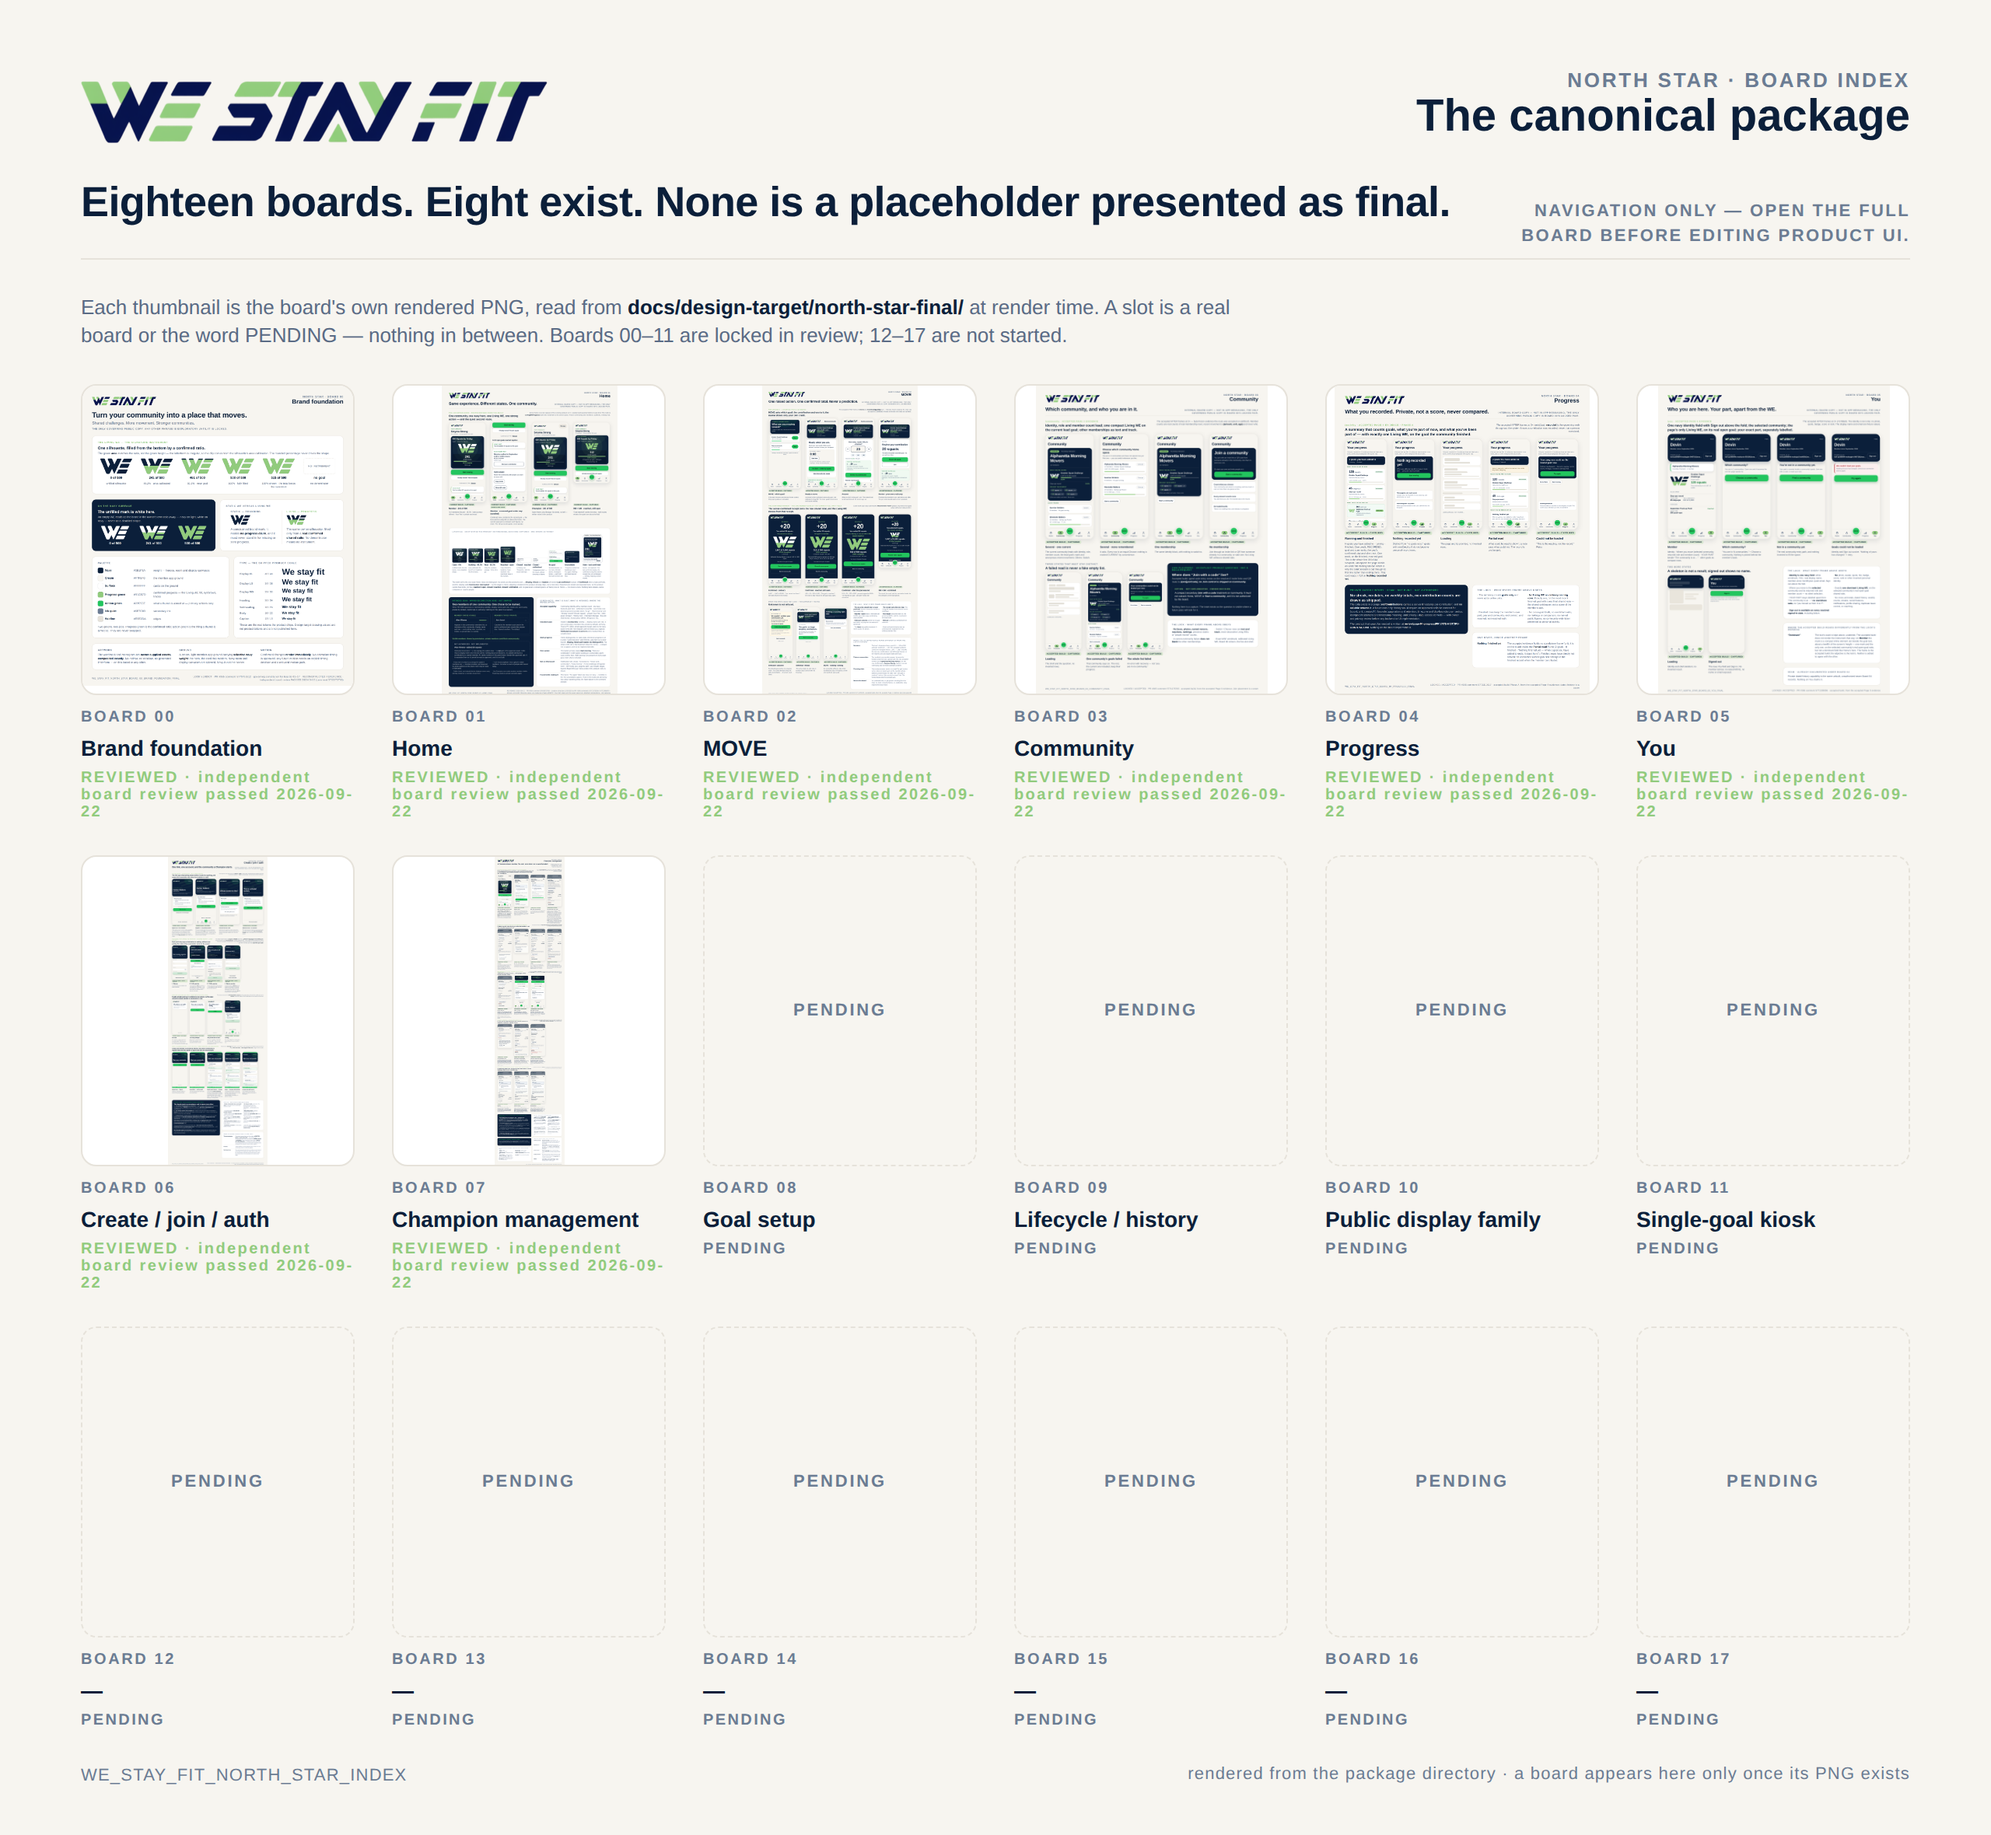
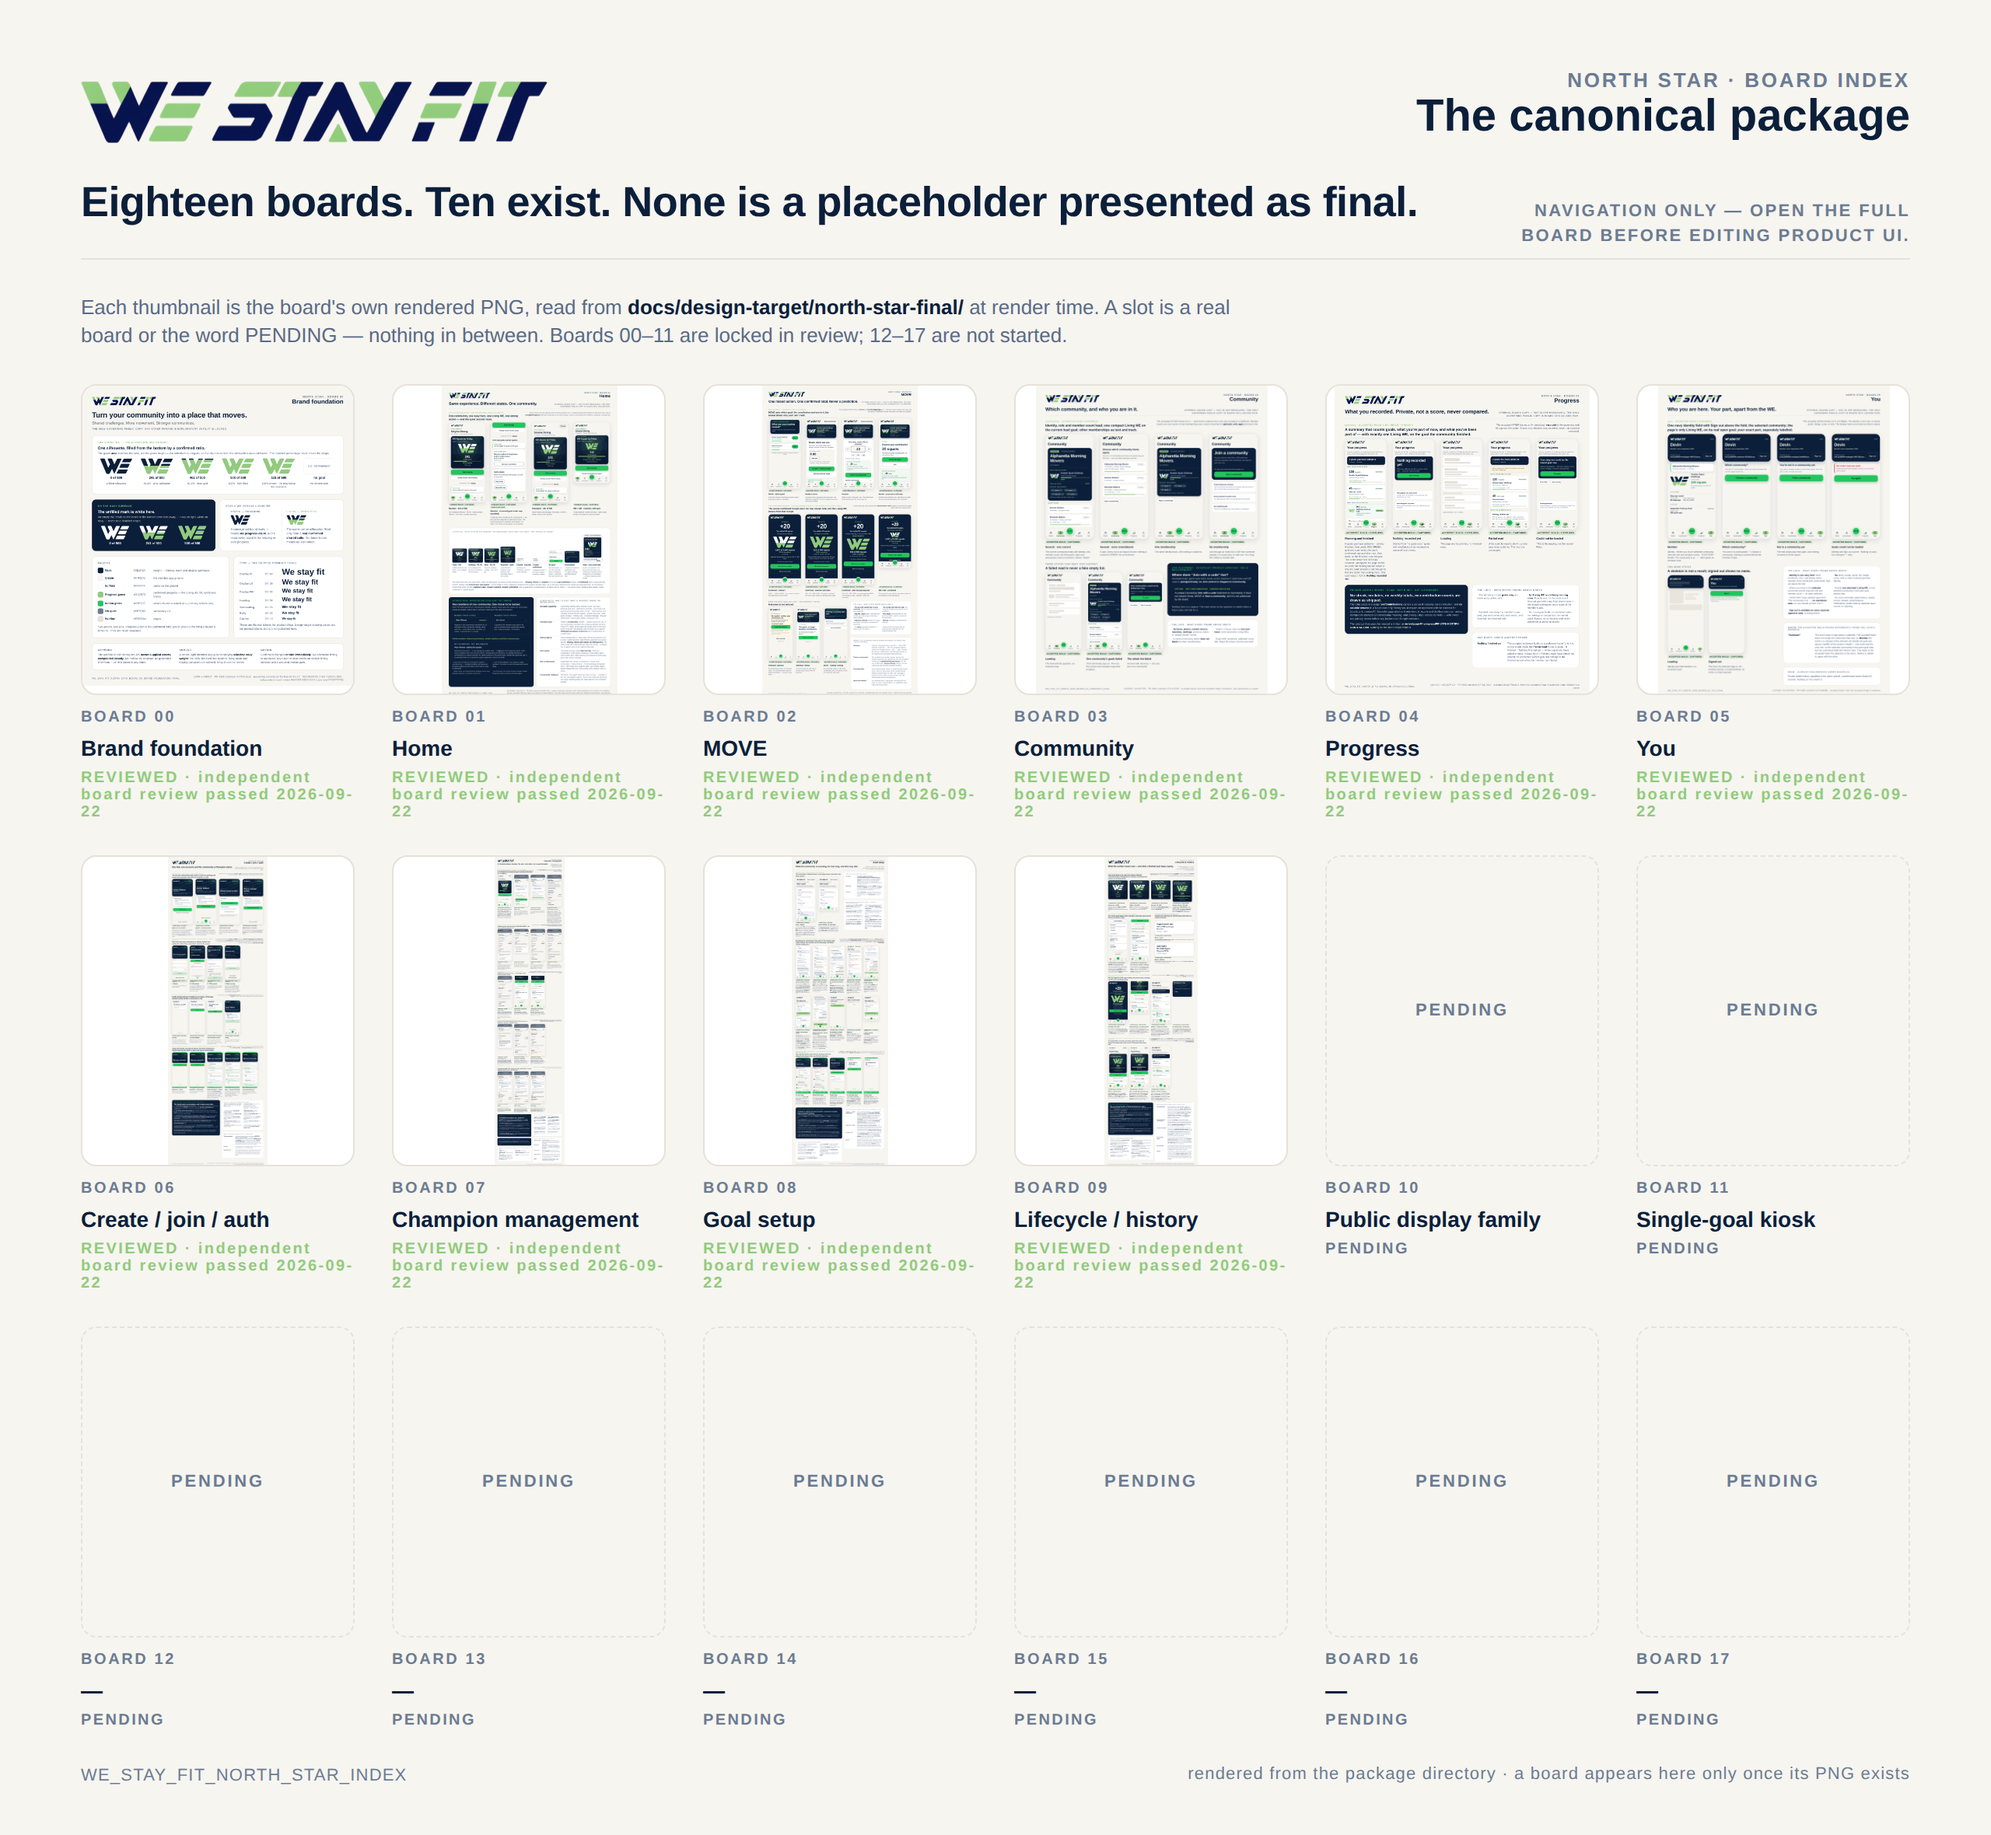
docs(westayfit): Boards 08 and 09 REVIEWED — status 3 recorded from verdicts 5786034310 and 5786014162; 1x copies cut; INDEX re-rendered with ten boards
- README rows 08 and 09: REVIEWED (PR #409 at 5674a86, artifact 10724116667, blob bb72dacc;
  PR #412 at 8aae42d, artifact 10724485128, blob f34cfaf3); review sentence Boards 00-09 + INDEX
- board-08 and board-09 READMEs: status-only review sections (PNG bytes untouched)
- review-copies: Board 08 and Board 09 1x copies; INDEX.png + INDEX 1x re-rendered;
  index.mjs headline "Ten exist"

Claude-Session: https://claude.ai/code/session_017cby7B21o4bFbnpsa1ciRV

diff --git a/docs/design-target/north-star-final/README.md b/docs/design-target/north-star-final/README.md
@@ -49,14 +49,17 @@ board gets treated as accepted when only its source screens were:
    checked it line by line against the lock verdict (recorded in the board's
    README).
 3. **Independent board review** — the Program Director has visually reviewed
-   the rendered board itself. **Boards 00–07 + INDEX have it as of
+   the rendered board itself. **Boards 00–09 + INDEX have it as of
    2026-09-22** — Boards 00–05 + INDEX by Program Director verdict
    `5783373780`, a pixel review of the commit-pinned 1× review copies at
    `a912773` (*PASS as the canonical reconstructed 00–05 package*); Board 06
    by Creative Director verdict `5784845039` on PR #404, a pixel review of the
    exported original at `d6aba97`; Board 07 by Creative Director verdict
    `5785727716` on PR #416, a pixel review of the exported original at
-   `fe82c1e` (artifact `10723837867`, blob `df1a587`). It clears this status for these
+   `fe82c1e` (artifact `10723837867`, blob `df1a587`); Boards 08 and 09 by
+   Creative Director verdicts `5786034310` (PR #409, exported original at
+   `5674a86`, artifact `10724116667`, blob `bb72dacc`) and `5786014162`
+   (PR #412, `8aae42d`, artifact `10724485128`, blob `f34cfaf3`). It clears this status for these
    reconstructed artifacts only; it does not newly accept or stage the
    underlying app pages, and it authorises no deployment.
 
@@ -102,8 +105,8 @@ unaffected.
 | 05 | You | **REVIEWED** · independent board review passed 2026-09-22 (`5783373780`) | `5771338856` | accepted build | [`board-05/…BOARD_05_YOU_FINAL.png`](board-05/WE_STAY_FIT_NORTH_STAR_BOARD_05_YOU_FINAL.png) | `a912773` | Six accepted Page 5 AFTER frames read in place; every lock state has one. **2026-09-22 (W2, #399):** the board's own lead line no longer claims a *dominant* mark; the lock's quoted wording is unaltered and a differences panel records the gap (P-4). |
 | 06 | Create / join / auth | **REVIEWED** · independent board review passed 2026-09-22 (`5784845039`) | `5771368550` | current build review — identity accepted at `3562156` and captured later; `/join/[joinCode]` awaiting its page verdict; `/start-community` target redesign drawn, not implemented | [`board-06/…BOARD_06_CREATE_JOIN_AUTH_FINAL.png`](board-06/WE_STAY_FIT_NORTH_STAR_BOARD_06_CREATE_JOIN_AUTH_FINAL.png) | `d6aba97` | W2 (PR #404); reviewed from the exported original (artifact `10721560350`, blob `3f0b556`); the PNG's own footer still reads its submission label. |
 | 07 | Champion management | **REVIEWED** · independent board review passed 2026-09-22 (`5785727716`) | `5771412585` | current Manage-sheet truth — the three Home frames are the accepted Page 1 captured later; the fourteen sheet frames are current build; the expanded-details / QR / screens paths are disclosed, not pictured | [`board-07/…BOARD_07_CHAMPION_MANAGEMENT_FINAL.png`](board-07/WE_STAY_FIT_NORTH_STAR_BOARD_07_CHAMPION_MANAGEMENT_FINAL.png) | `ee4e4f8` | W2 (PR #416); reviewed from the exported original (artifact `10723837867`, blob `df1a587`); the PNG's own footer still reads its submission label. Two annotations travel with it (board README): the lock's "member directory not built" line is source-scoped to `5356e3c` and does not retire the separate #390 work; the event-first dense sheet and its invite-not-ready caveat remain product findings, not a premium standard. Champion administration beyond the current sheet is an unbuilt seam. |
-| 08 | Goal setup | PENDING | `5771436211` | staging-only current-build truth | — | — | |
-| 09 | Lifecycle / history | PENDING | `5771469193` | lifecycle truth | — | — | |
+| 08 | Goal setup | **REVIEWED** · independent board review passed 2026-09-22 (`5786034310`) | `5771436211` | staging-only current-build truth — the two arrival frames frozen at `02e24df`; a CURRENT BUILD strip from W4's real goal-setup captures (#415, source `0757379`); the target drawings kept non-authoritative where they conflict with the lock | [`board-08/…BOARD_08_GOAL_SETUP_FINAL.png`](board-08/WE_STAY_FIT_NORTH_STAR_BOARD_08_GOAL_SETUP_FINAL.png) | `5674a86` | W1B (PR #409); composition PASS `5784966469`, the coverage hold closed by the bounded revision `56fb683`, two captions corrected at `5674a86`; reviewed from the exported original (artifact `10724116667`, blob `bb72dacc`); the PNG's own footer still reads its submission label. Not page acceptance: the route stays available in staging and local emulators, production UI gated. |
+| 09 | Lifecycle / history | **REVIEWED** · independent board review passed 2026-09-22 (`5786014162`) | `5771469193` | lifecycle truth — eleven accepted-build captures read in place, plus the corrected-below-target specimen photographed from a real reach and a real group-level correction (`review/lifecycle-corrected-current/`, W1B's gated producer) | [`board-09/…BOARD_09_LIFECYCLE_HISTORY_FINAL.png`](board-09/WE_STAY_FIT_NORTH_STAR_BOARD_09_LIFECYCLE_HISTORY_FINAL.png) | `8aae42d` | W1B (PR #412); layout PASS `5785588557`, the completeness hold closed by the supplement; reviewed from the exported original (artifact `10724485128`, blob `f34cfaf3`); the PNG's own footer still reads its submission label. No new History route, no dated personal history, no streak. |
 | 10 | Public display family | PENDING | `5771496484` | target | — | — | Device classes are design targets, not installed hardware. |
 | 11 | Single-goal kiosk | PENDING | `5771528649` | target | — | — | Device classes are design targets, not installed hardware. |
 | 12 | — | PENDING | — | — | — | — | Not started. Paused until 00–11 clears. |

diff --git a/docs/design-target/north-star-final/board-09/README.md b/docs/design-target/north-star-final/board-09/README.md
@@ -223,3 +223,20 @@ read from a named file in this repository.
 The 1× review copy, the INDEX, the package README row for 09 and the export
 allowlist entry for this PNG are the lead integrator's. The independent board
 review is the Creative/Product Director's. **This board does not self-approve.**
+
+## Independent board review — PASSED 2026-09-22
+
+Creative Director verdict on PR #412, comment `5786014162`: a pixel review of
+the exported original at head `8aae42d` (run `35796426467`, artifact
+`10724485128`; PNG git blob `f34cfaf3` matched to the PR head) — *the only
+outstanding completeness hold closed; final reconstructed CURRENT-BUILD
+reference acceptance.* The path: layout PASS at `193c3bc` (`5785588557`) with
+completeness PARTIAL for the Corrected Below Target specimen, closed by the
+supplement at `8aae42d` (a real reach with a server-stamped `reachedAt`, then
+a real group-level correction to 460 of 500, photographed on Home and
+Progress; producer `tests-e2e/sprint-w1b-lifecycle-capture.spec.ts`, evidence
+`review/lifecycle-corrected-current/`). Status 3 in the manifest is now
+REVIEWED. Status-only: the PNG bytes are exactly the reviewed bytes; the
+footer's submission label is historical and was deliberately not re-rendered.
+The verdict accepts the reference artifact only: no new History route, no
+personal dated-history backend, no streak, no deployment approval.

diff --git a/docs/design-target/north-star-final/board-08/README.md b/docs/design-target/north-star-final/board-08/README.md
@@ -259,3 +259,18 @@ lock did not settle something, it is not asserted.
 The 1× review copy, the INDEX, the package README row for 08 and the export
 allowlist entry for this PNG are the lead integrator's. The independent board
 review is the Creative/Product Director's. **This board does not self-approve.**
+
+## Independent board review — PASSED 2026-09-22
+
+Creative Director verdict on PR #409, comment `5786034310`: a pixel review of
+the exported original at head `5674a86` (run `35797187977`, artifact
+`10724116667`; PNG git blob `bb72dacc` matched to the PR head) — *both holds
+closed; final reconstructed CURRENT-BUILD reference acceptance.* The path:
+composition PASS at `fb0846f` (`5784966469`), coverage PARTIAL (`5785026250`)
+closed by the one bounded revision `56fb683` from W4's goal-setup captures
+(#415), then two caption corrections (`5785827590`) at `5674a86`. Status 3 in
+the manifest is now REVIEWED. Status-only: the PNG bytes are exactly the
+reviewed bytes; its footer's "SELF-CHECKED · INDEPENDENT REVIEW PENDING" is
+historical submission labelling and was deliberately not re-rendered. The
+verdict accepts the reference artifact only: it grants no page acceptance of
+`/goals/new`, no production UI, no main merge and no staging deployment.
